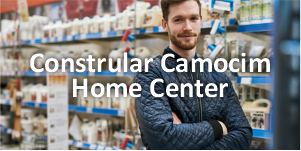
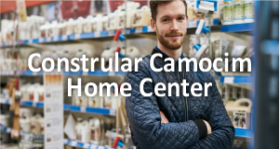
atualiazaçao de tamanhos de  imgs

diff --git a/estilo/style.css b/estilo/style.css
@@ -108,6 +108,13 @@
         flex-wrap: wrap;
     }
 
+    .farmacia-bloco {
+        display: flex;
+        justify-content: center;
+        flex-wrap: wrap;
+    }
+
+
 
     .prefeitura {
         display: flex;
@@ -1561,14 +1568,21 @@ hr {
 }
 
 .construçao-bloco > div {
-    width: 300px;
+    width: 280px;
+    height: 150px;
+    box-shadow: 2px 2px 15px rgba(0, 0, 0, 0.384);
+    margin: 10px;
+}
+
+.construçao-bloco > img {
+    width: 280px;
     height: 150px;
     box-shadow: 2px 2px 15px rgba(0, 0, 0, 0.384);
     margin: 10px;
 }
 
 .construçao-bloco > div:hover {
-    width: 300px;
+    width: 280px;
     height: 150px;
     margin: 5px;
     border: 5px solid rgb(1, 129, 91);
@@ -1708,6 +1722,28 @@ hr {
     font-weight: 100;
     
   }
+
+
+
+  .farmacia-bloco {
+    display: flex;
+    justify-content: center;
+}
+
+.farmacia-bloco > div {
+    width: 280px;
+    height: 150px;
+    margin: 10px;
+}
+
+.farmacia-bloco > div:hover {
+    width: 280px;
+    height: 150px;
+    margin: 5px;
+    border: 5px solid #F62C27;
+    border-radius: 10px;
+   
+}
 
 
 

diff --git a/farmacia.html b/farmacia.html
@@ -105,10 +105,21 @@
     </div >
   </div>
 
-  <div class="img-contruçao">
-    <img src="tela de contruçao/tela de contruçao.png" alt="contruçao de tela">
 
+  <div class="farmacia-bloco">
+    <div>
+      <img src="farmacia/pague menos/pague menos.png" alt="farmacia">
+    </div>
+      
+    <div>
+      <img src="farmacia/Farmacia Santa Branca/farmacia santa branca.png" alt="farmacia">
+    </div>
+
+    <div>
+      <img src="farmacia/Farmacia Pague Facil/Farmacia Pague Facil.png" alt="farmacia">
+    </div>
   </div>
+
   
   <footer>
     <p>Site 100% criado por um Nativo</p>
